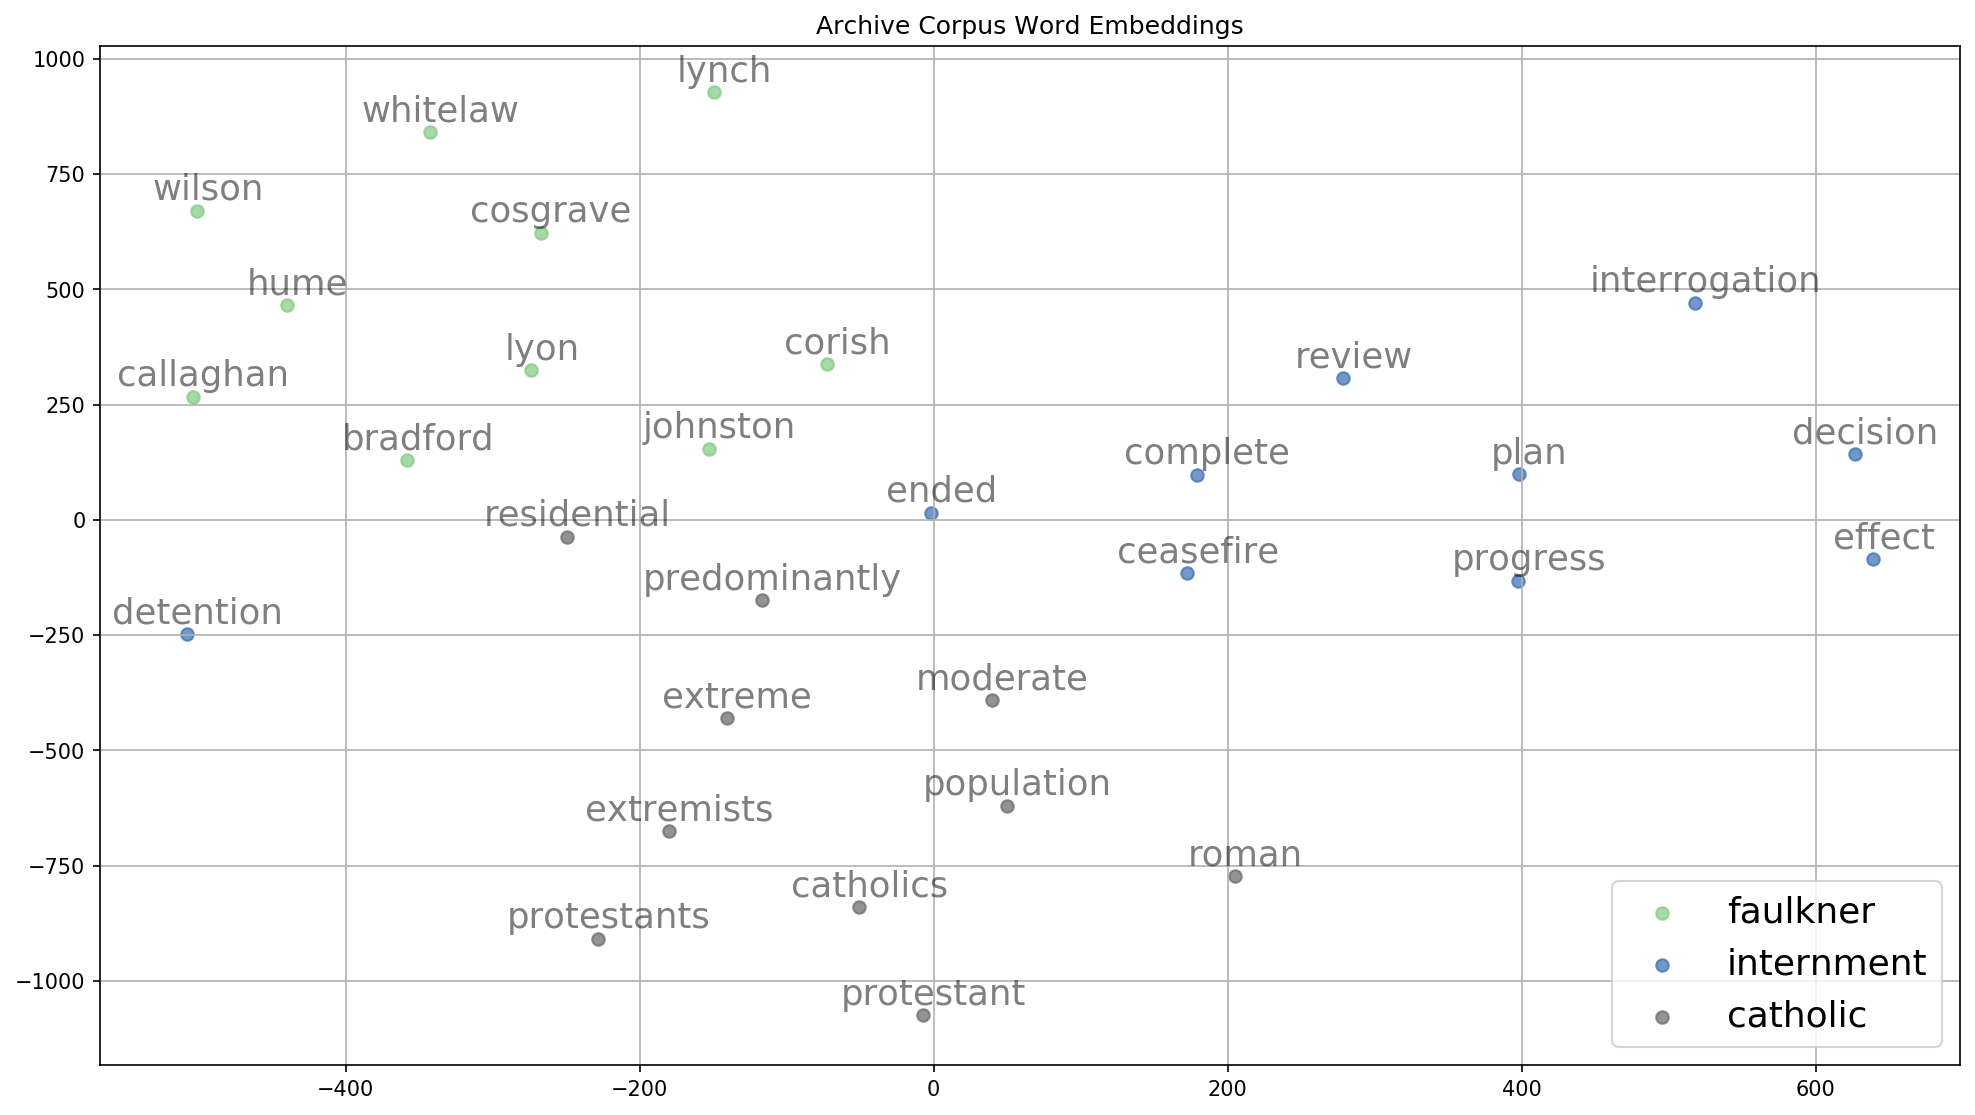
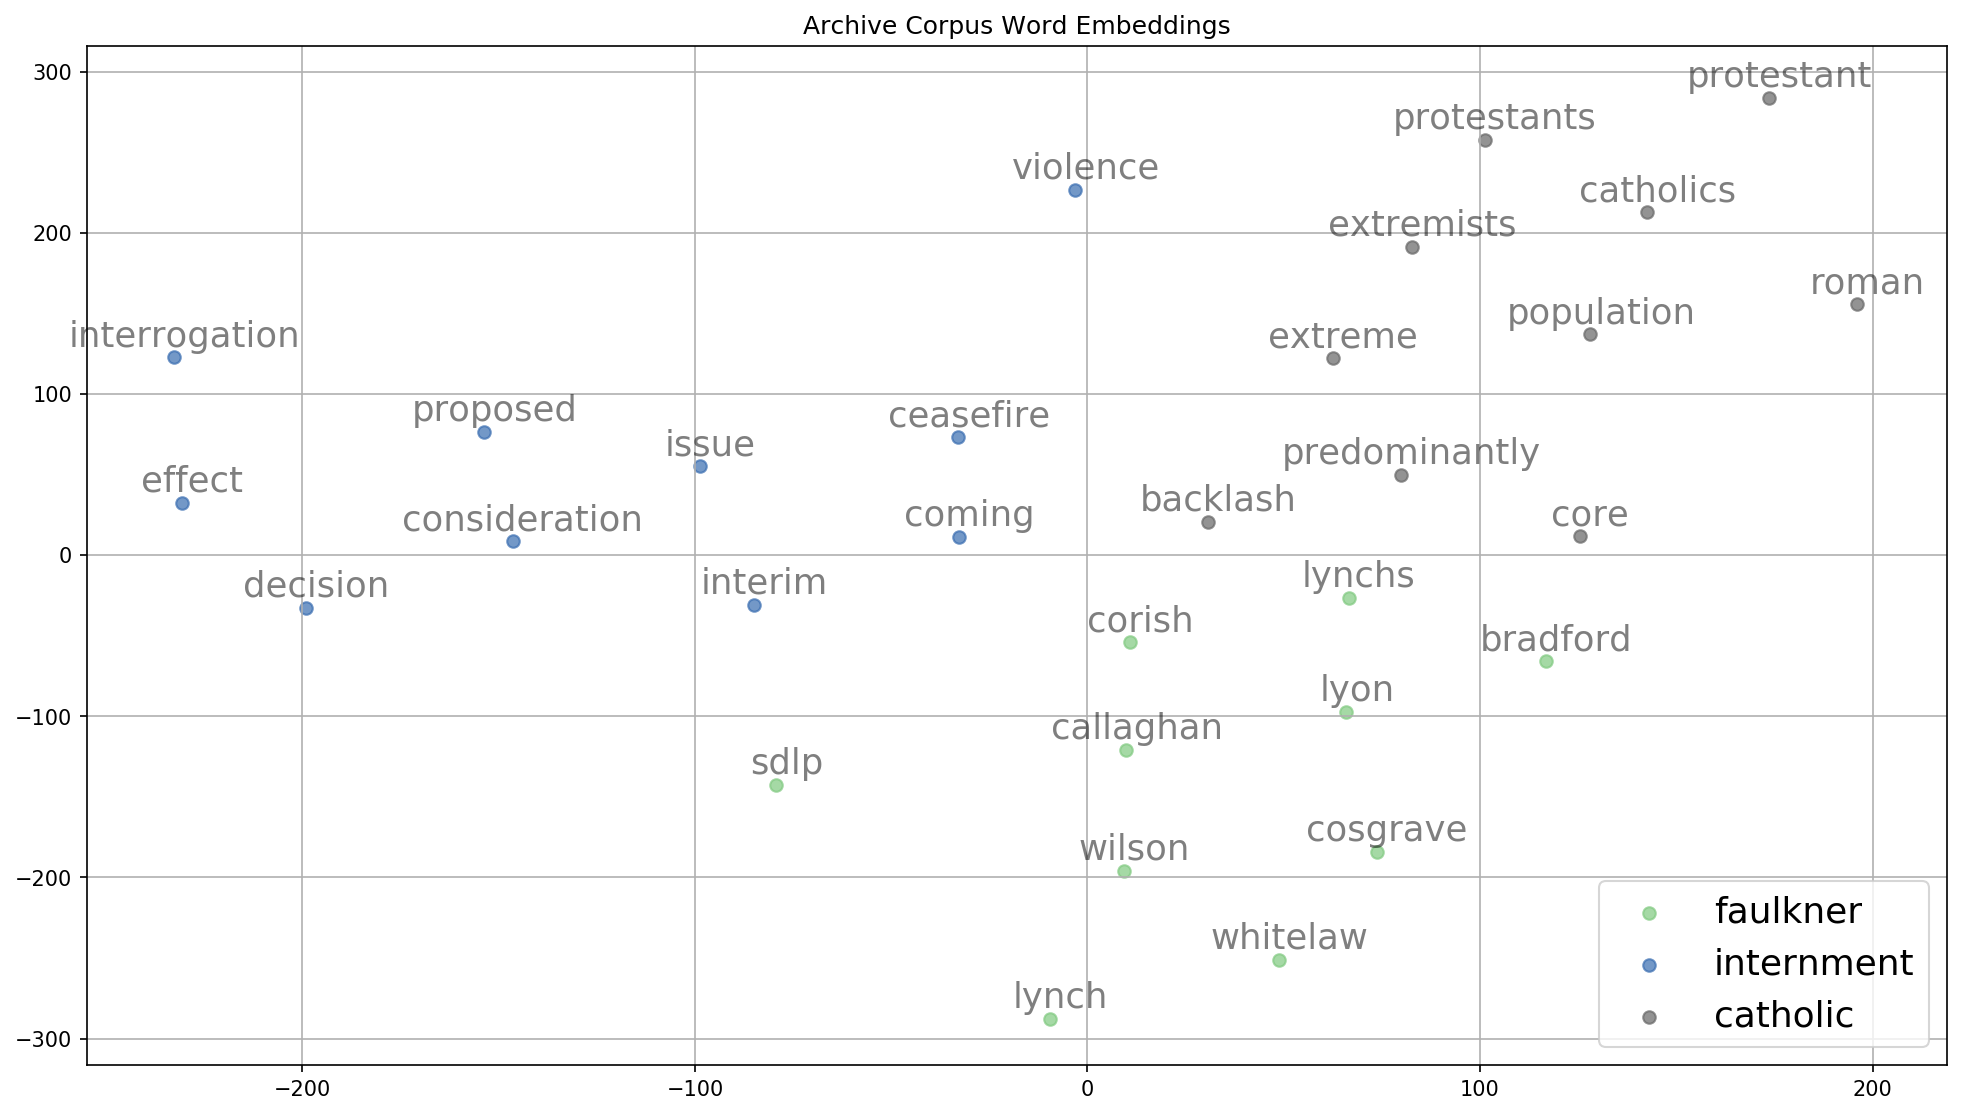
Update visualization file location

diff --git a/class_nn/embedding_viz.py b/class_nn/embedding_viz.py
@@ -1,5 +1,7 @@
 ######################################################
 ### Code visualizes Archive corpus word embeddings ###
+### Plots top words "most similar" to key words    ###
+### PCA calculated per word list subset            ###
 ### Apr 2020                                       ###
 ######################################################
 
@@ -15,7 +17,7 @@ from gensim.models import KeyedVectors
 this_file_path = os.path.abspath(__file__)
 project_root = os.path.split(os.path.split(this_file_path)[0])[0]
 
-w_vec_model = KeyedVectors.load_word2vec_format(os.path.join(project_root, "class_nn/archive_corpus_embedding_w2v.txt"), binary=False)
+w_vec_model = KeyedVectors.load_word2vec_format(os.path.join(project_root, "class_nn/archive_embeddings/archive_corpus_embedding_w2v.txt"), binary=False)
 
 w_vec_model.vocab
 len(w_vec_model.vocab)
@@ -63,7 +65,7 @@ def tsne_plot_similar_words(title, labels, embedding_clusters, word_clusters, a,
 
 
 tsne_plot_similar_words('Archive Corpus Word Embeddings', keys, embeddings_en_2d, word_clusters, 0.7,
-                        'similar_words.png')
+                        'figures/similar_words.png')
 
 
 ### Visualization for eScience online:
@@ -107,4 +109,4 @@ def tsne_plot_similar_words(title, labels, embedding_clusters, word_clusters, a,
 
 
 tsne_plot_similar_words('Archive Corpus Word Embeddings', keys, embeddings_en_2d, word_clusters, 0.7,
-                        'similar_words_for_online.png')
+                        'figures/similar_words_for_online.png')
